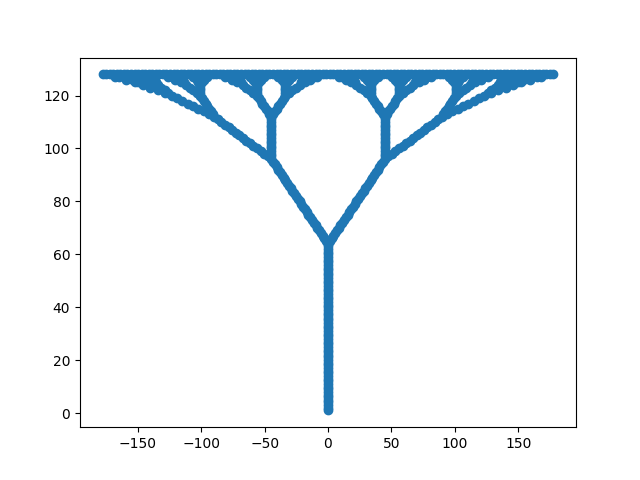
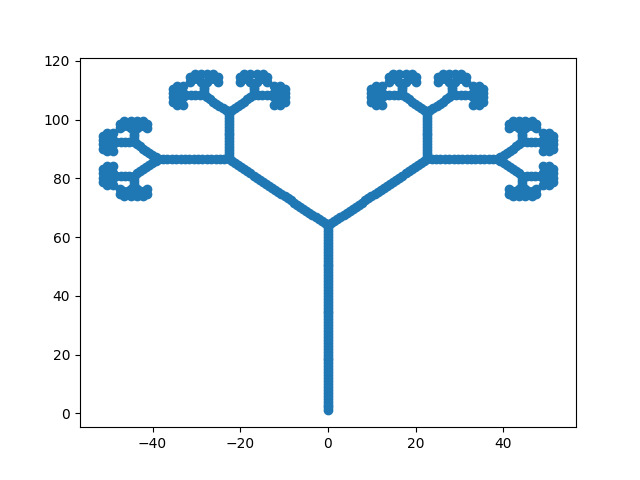
proper angle treatment

diff --git a/linsys/vision.py b/linsys/vision.py
@@ -1,16 +1,25 @@
 from abc import ABC, abstractmethod
 import numpy as np
+import math
 
 
 class Turtle(ABC):
     def __init__(self):
-        self.position = np.array([0., 0.])
-        self.direction = np.array([0., 1.])
+        self.position = (0, 0)
+        self.angle = 90
         self.trace = []
 
     def move(self, step=1.0):
         # we could normalize direction
-        self.position += step * self.direction
+        x, y = self.position
+        rad = self.angle * math.pi / 180.
+        direction = (math.cos(rad), math.sin(rad))
+        x += step * direction[0]
+        y += step * direction[1]
+        self.position = (x, y)
+
+    def turn(self, degree):
+        self.angle += degree
 
     def poop(self):
         self.trace.append(tuple(self.position))
@@ -23,6 +32,10 @@ class Turtle(ABC):
         for symbol in symbols:
             self.feed(symbol)
         return self
+
+    def numpy(self):
+        return np.asarray(self.trace)
+
 
 
 class FractalTree(Turtle):
@@ -39,21 +52,24 @@ class FractalTree(Turtle):
             self.move()
             self.poop()
         elif symbol == '[':
-            self.stack.append((self.position.copy(), self.direction.copy()))
-            self.direction += np.array([-1.4, 0.])  # turn left
+            self.stack.append((self.position, self.angle))
+            self.turn(-45)
         elif symbol == ']':
-            self.position, self.direction = self.stack.pop()
-            self.direction += np.array([1.4, 0.])  # turn right
+            self.position, self.angle = self.stack.pop()
+            self.turn(45)
 
 
 if __name__ == '__main__':
     from linsys import Lsys
     import matplotlib.pyplot as plt
+    import sys
+    n_iter = int(sys.argv[1]) if len(sys.argv) > 1 else 7
+    print("N iter =", n_iter)
     fractal = Lsys({'1': '11', '0': '1[0]0'})
     turtle = FractalTree()
-    symbols = fractal.apply('0', 7)
-    turtle(symbols)
-    trace = np.asarray(turtle.trace)
+    symbols = fractal.apply('0', n_iter)
+    print(len(symbols))
+    trace = turtle(symbols).numpy()
     plt.figure(1)
     plt.scatter(trace[:, 0], trace[:, 1])
     plt.savefig('tree.png')
